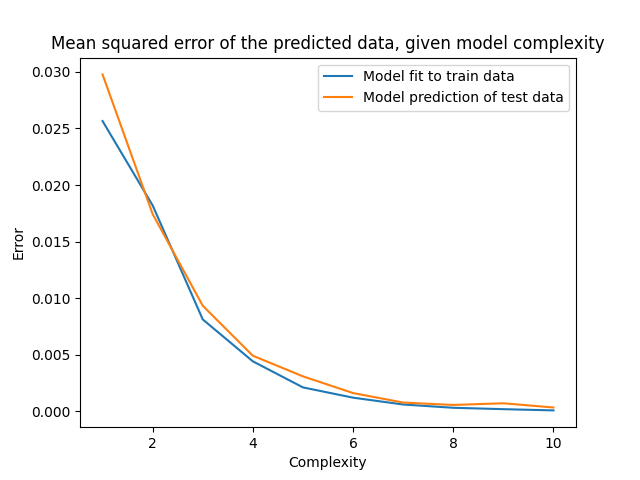
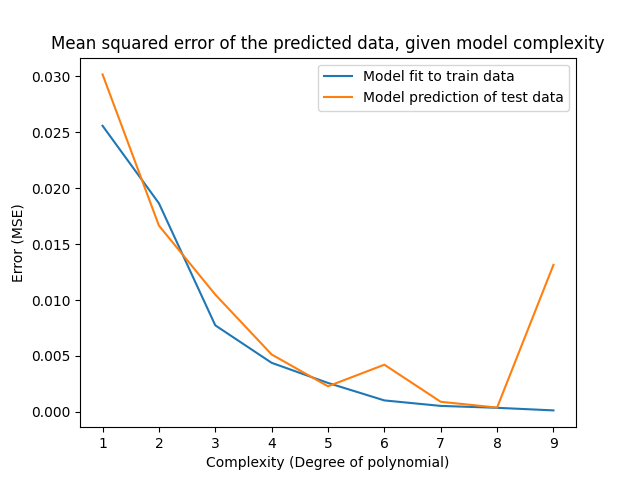
Plotting of error-complexity and bias-variance. Don't know if the results are ok, but at least here they are

diff --git a/src/plotting/complexity_bv_tradeoff.py b/src/plotting/complexity_bv_tradeoff.py
@@ -1,0 +1,62 @@
+import numpy as np
+import matplotlib.pyplot as plt
+
+import sys, os, inspect
+currentdir = os.path.dirname(os.path.abspath(inspect.getfile(inspect.currentframe())))
+parentdir = os.path.dirname(currentdir)
+sys.path.insert(0, parentdir)
+
+from franke import franke
+from utils import MSE, design_matrix, split_and_scale, mean_value
+from regression_methods import OLS
+from assessment import bootstrap
+
+out_dir = "../../doc/assets/"
+
+
+N = 18
+x = np.linspace(0, 1, N); y = np.linspace(0, 1, N)
+x, y = np.meshgrid(x, y)
+x = np.ravel(x); y = np.ravel(y)
+Y = franke(x, y, noise_sigma=0.1, noise=True)
+
+degs = list(range(1,10))
+Xs = [design_matrix(x, y, deg) for deg in degs]
+MSEs_train = []
+MSEs_test = []
+for i, X in enumerate(Xs):
+    print(f"Error/complexity-plot: {i/len(Xs) * 100}%")
+    X_train, X_test, y_train, y_test = split_and_scale(X, Y, test_size=0.3)
+
+    ols = OLS(X_train, y_train)
+    y_fit = ols.predict(X_train)
+    y_predict= ols.predict(X_test)
+
+    MSEs_train.append(MSE(y_fit, y_train))
+    MSEs_test.append(MSE(y_predict, y_test))
+
+
+plt.plot(degs, MSEs_train, label="Model fit to train data")
+plt.plot(degs, MSEs_test, label="Model prediction of test data")
+plt.legend()
+plt.title("Mean squared error of the predicted data, given model complexity")
+plt.xlabel("Complexity (Degree of polynomial)"); plt.ylabel("Error (MSE)")
+plt.savefig(os.path.join(out_dir, "complexity.png"))
+
+plt.clf()
+
+degs = list(range(1,10))
+Xs = [design_matrix(x, y, deg) for deg in degs]
+variances = []
+biases = []
+for i, X in enumerate(Xs):
+    print(f"Bias/variance-plot: {i/len(Xs) * 100}%")
+
+    bootstrap_predicts, y_test = bootstrap(X, Y, 100, OLS)
+    biases.append(mean_value((y_test - np.mean(bootstrap_predicts))**2))
+    variances.append(mean_value(np.var(bootstrap_predicts, axis=1)))
+
+plt.plot(degs, variances, label="Variance")
+plt.plot(degs, biases, label="Bias")
+plt.legend()
+plt.savefig(os.path.join(out_dir, "var.png"))

diff --git a/src/franke.py b/src/franke.py
@@ -52,18 +52,3 @@ def make_franke_data():
     df.to_csv ('./' + path + '/' + outfilename, index = False, header=True)
 
     df.to_csv (outfilename, index = False, header=True)
-
-def plot_franke(N):
-    """Quick function to look at the Franke function in 3D"""
-    x = y = linspace(0, 1, N)
-    X, Y = meshgrid(x, y)
-
-    Z = franke(X, Y)
-
-    fig = plt.figure()
-    ax = fig.gca(projection='3d')
-
-    surface = ax.plot_surface(
-        X, Y, Z, cmap=cm.coolwarm, linewidth=0, antialiased=False)
-
-    plt.show()
